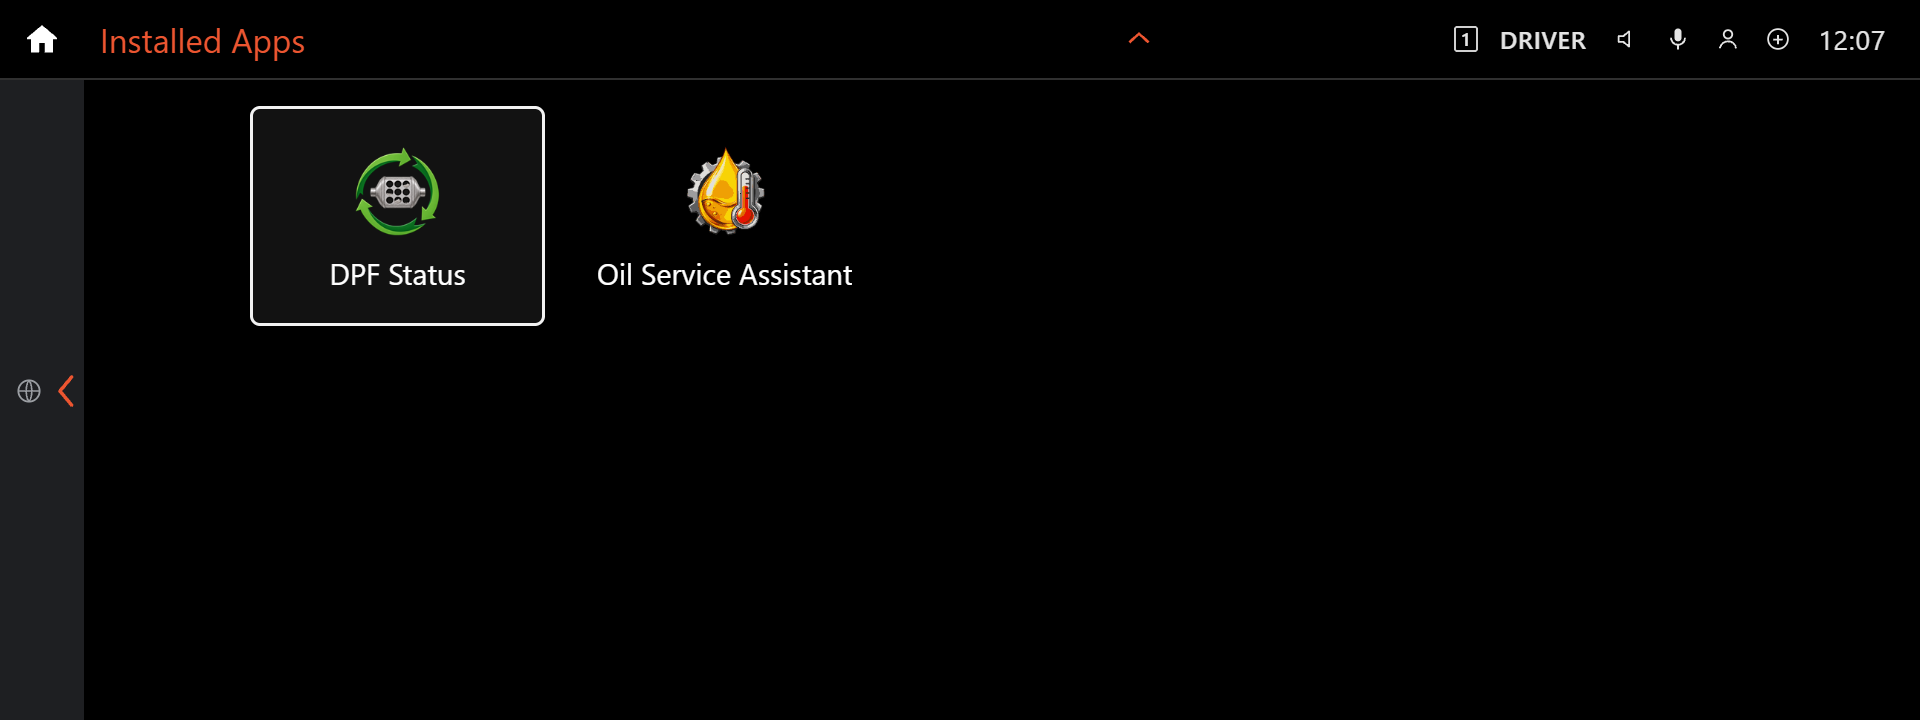
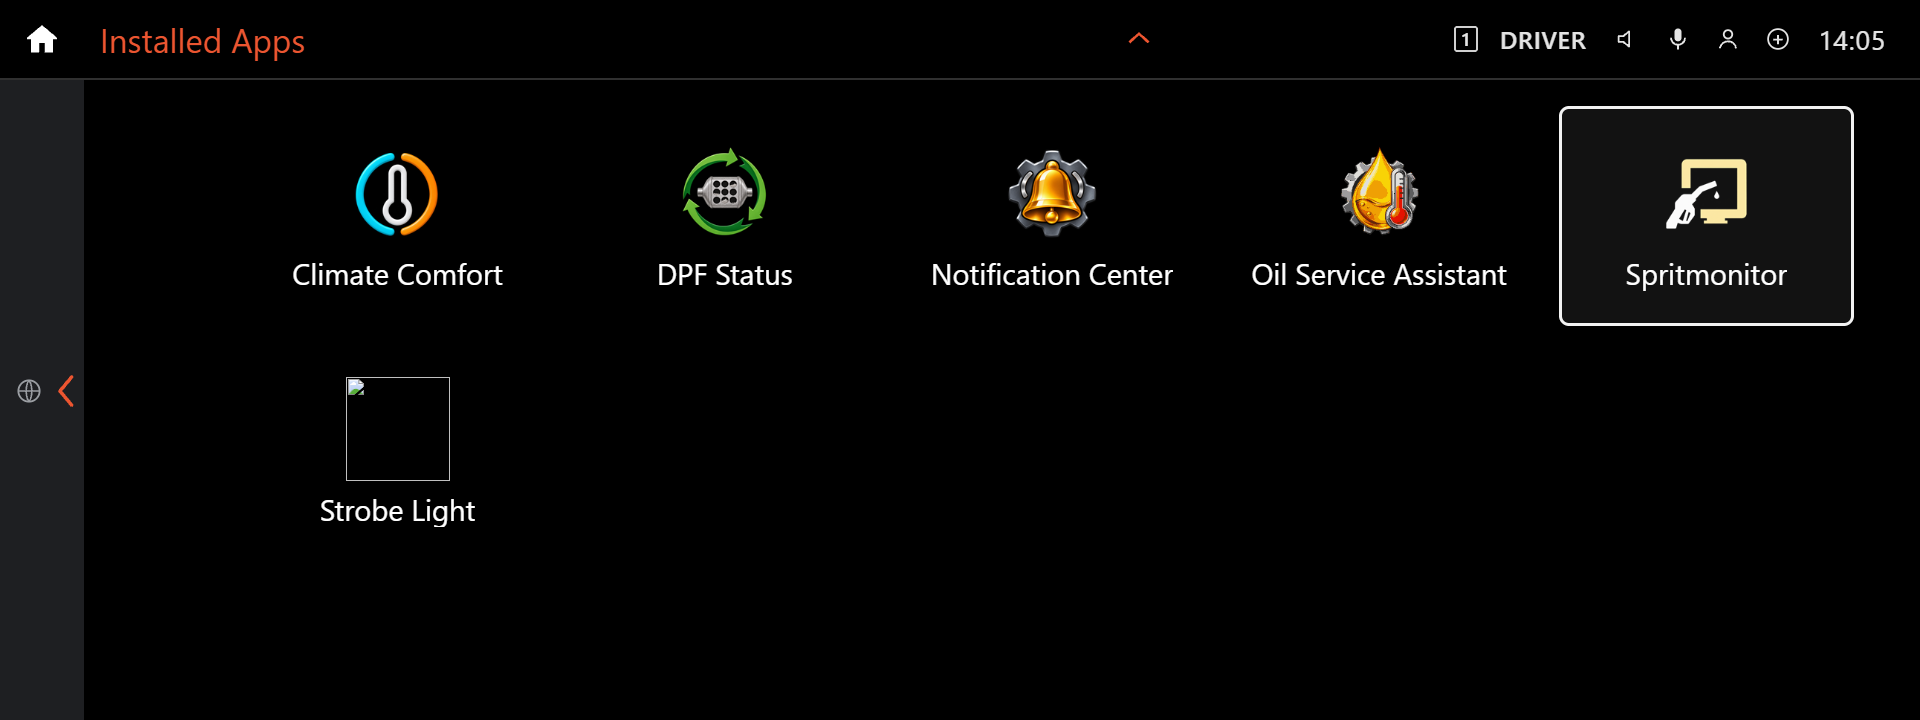
Sync Climate Comfort files and replace applications screenshot

diff --git a/apps/climate-comfort/front-belts.js b/apps/climate-comfort/front-belts.js
@@ -4,23 +4,31 @@ const { Diag, hex, replyTo } = require('./kit/diag');
 
 const ACSM_ADDRESS = 0x01;
 const ROUTINE_CONTROL = 0x31;
+const MAX_READ_AGE_MS = 5000;
 const STATUS = { 0x00: 'Open', 0x01: 'Latched', 0xFB: 'Fault', 0xFC: 'Coding mismatch',
     0xFD: 'Not fitted', 0xFF: 'Invalid' };
 
 function frontBeltReader(signals, log) {
     const diag = new Diag(signals, log);
     diag.quiet = true;
+    const lastReply = new Map();
 
     async function readContact(contact) {
         // ACSM5 GURTKONTAKT: startRoutine A0D2 with a single contact selector.
         const request = [0x01, 0xA0, 0xD2, contact];
         const reply = await diag.physical(ACSM_ADDRESS, ROUTINE_CONTROL, request, 1500,
             replyTo(ROUTINE_CONTROL, request), { hardTimeoutMs: 3000 });
-        if (!reply) return 'No response';
+        const now = Date.now();
+        if (!reply) {
+            const previous = lastReply.get(contact);
+            return previous && now - previous.time <= MAX_READ_AGE_MS ? previous.text : '-';
+        }
         if (reply[0] === 0x7F) return reply.length >= 3 ? 'NRC ' + hex(reply[2]) : 'Invalid response';
         if (reply.length !== 5) return 'Unexpected reply (' + reply.map(byte => hex(byte)).join(' ') + ')';
         const value = reply[4];
-        return (STATUS[value] || '?') + ' ' + hex(value);
+        const text = (STATUS[value] || '?') + ' ' + hex(value);
+        lastReply.set(contact, { text, time: now });
+        return text;
     }
 
     return async function readFrontBelts(keepReading) {
